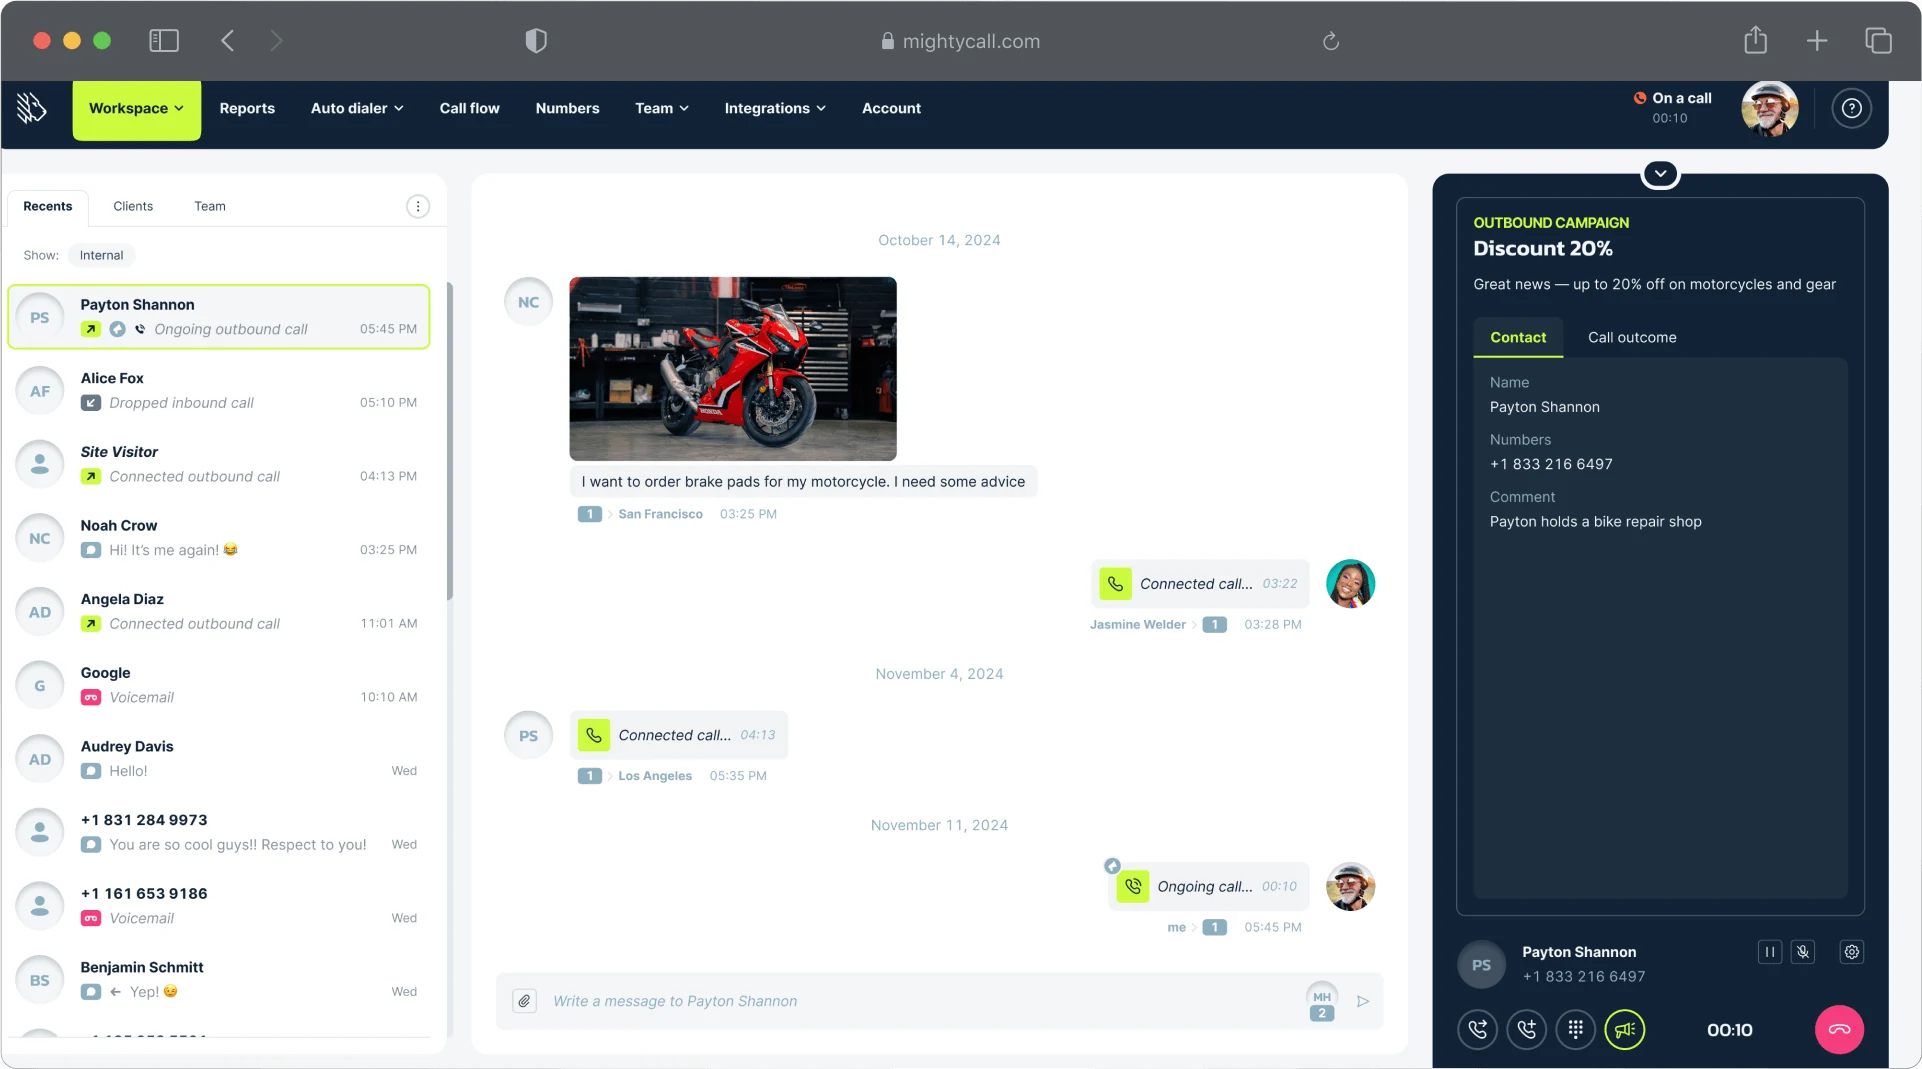
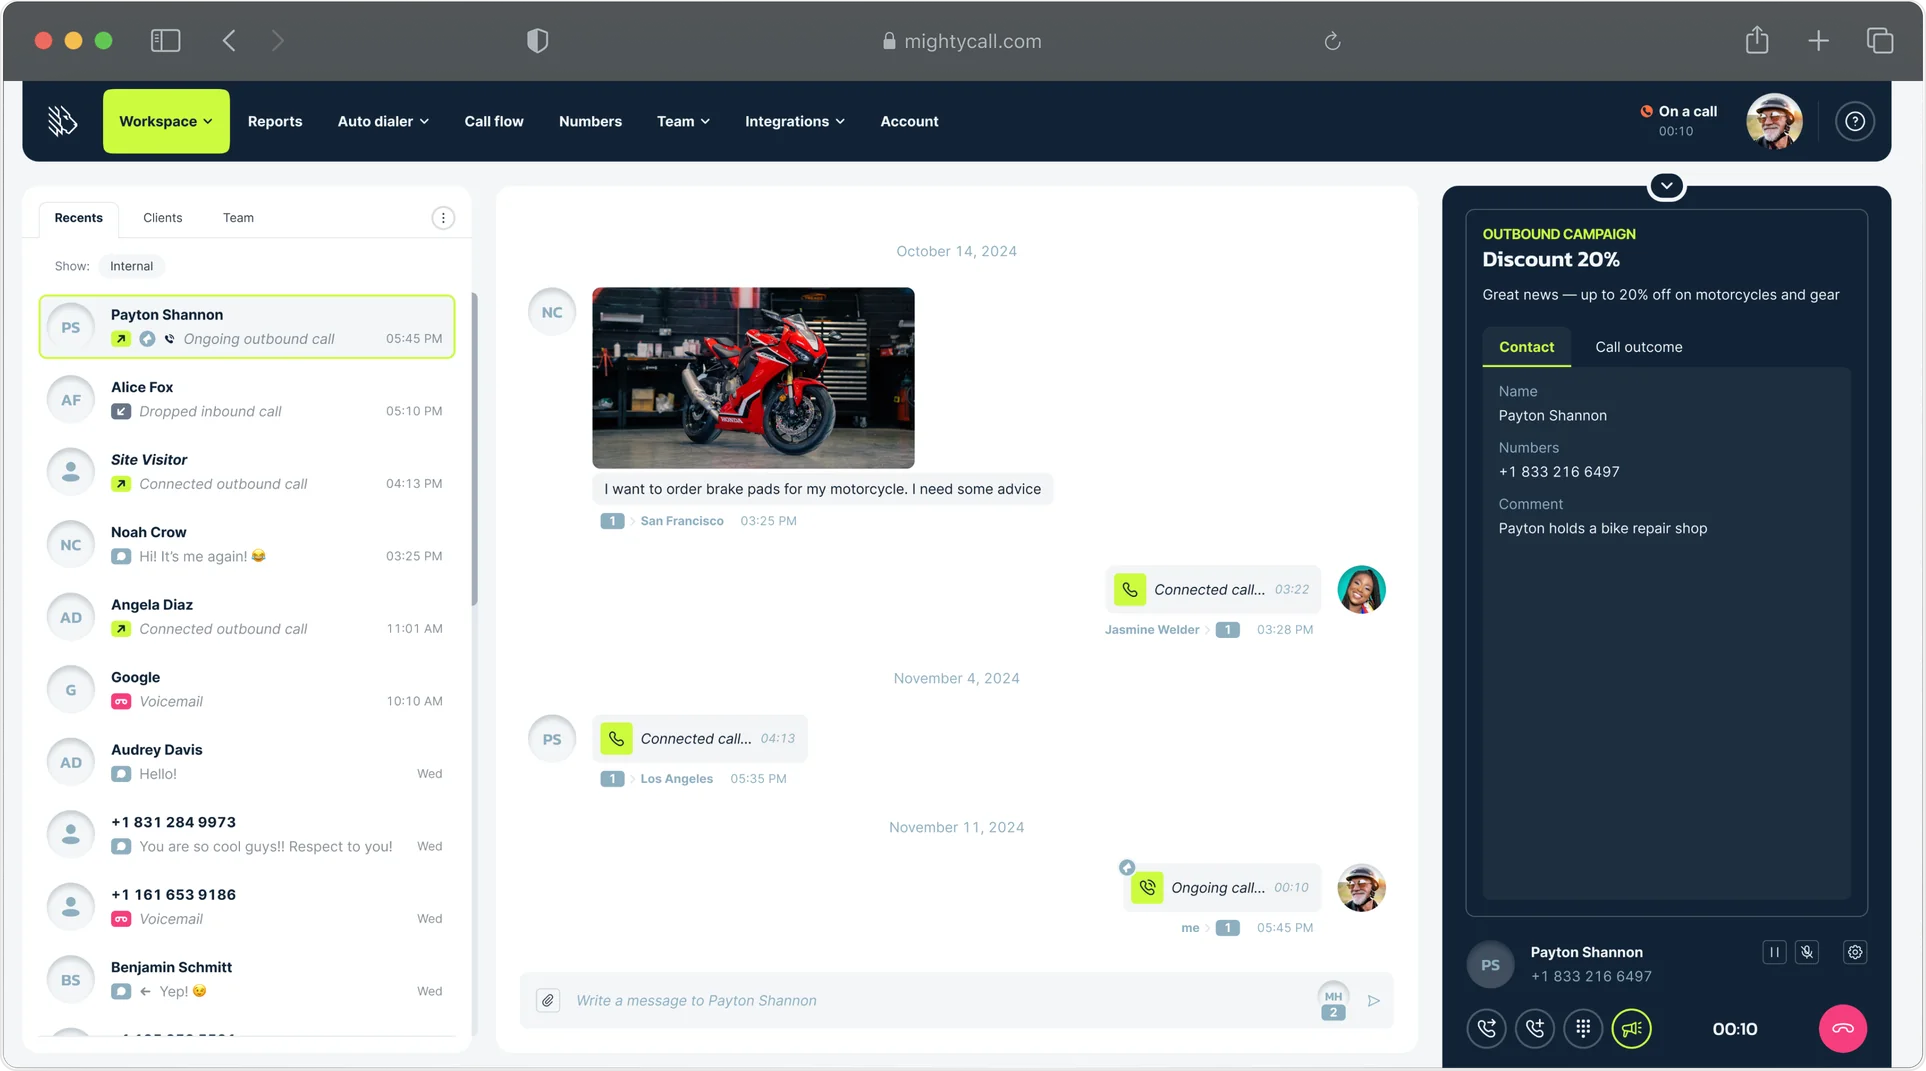
Кейс: галерея оператора — входящий звонок, разговор, после звонка

diff --git a/cases/predictive-dialer/index.html b/cases/predictive-dialer/index.html
@@ -240,13 +240,20 @@
         <p class="text-l"><strong>Рабочее место оператора.</strong> Звонок из&nbsp;кампании приходит в&nbsp;веб-фон, который работает во&nbsp;всём продукте. Оператор получает его, когда клиент уже на&nbsp;линии, и&nbsp;сразу видит название кампании и&nbsp;данные контакта. После разговора он&nbsp;выбирает результат звонка и&nbsp;переходит к&nbsp;следующему.</p>
       </div>
       <div class="section__wide gallery" data-gallery>
-        <div class="gallery__track" tabindex="0" role="region" aria-label="Экраны оператора, 2 картинки">
+        <div class="gallery__track" tabindex="0" role="region" aria-label="Экраны оператора, 3 картинки">
           <figure class="figure gallery__slide">
             <button class="figure__stage figure__zoom" type="button" data-zoom="fit" aria-label="Открыть картинку на весь экран">
-              <img class="theme-light" src="img/on-call.webp" alt="Рабочее место оператора во&nbsp;время звонка из&nbsp;кампании, справа название кампании и&nbsp;данные контакта" width="1923" height="1070" loading="lazy" decoding="async">
-              <img class="theme-dark" src="img/on-call-dark.webp" alt="Рабочее место оператора во&nbsp;время звонка из&nbsp;кампании, справа название кампании и&nbsp;данные контакта" width="1922" height="1069" loading="lazy" decoding="async">
+              <img class="theme-light" src="img/ringing.webp" alt="Рабочее место оператора с&nbsp;входящим звонком из&nbsp;кампании, справа название кампании, данные контакта и&nbsp;кнопка ответа" width="1926" height="1071" loading="lazy" decoding="async">
+              <img class="theme-dark" src="img/ringing-dark.webp" alt="Рабочее место оператора с&nbsp;входящим звонком из&nbsp;кампании, справа название кампании, данные контакта и&nbsp;кнопка ответа" width="1926" height="1071" loading="lazy" decoding="async">
             </button>
-            <figcaption class="text-s">Звонок из&nbsp;кампании. Клиент уже на&nbsp;линии, справа название кампании и&nbsp;данные&nbsp;контакта</figcaption>
+            <figcaption class="text-s">Звонок из&nbsp;кампании приходит, когда клиент уже на&nbsp;линии. Справа название кампании и&nbsp;данные&nbsp;контакта</figcaption>
+          </figure>
+          <figure class="figure gallery__slide">
+            <button class="figure__stage figure__zoom" type="button" data-zoom="fit" aria-label="Открыть картинку на весь экран">
+              <img class="theme-light" src="img/on-call.webp?v=2" alt="Рабочее место оператора во&nbsp;время разговора с&nbsp;клиентом из&nbsp;кампании, справа данные контакта и&nbsp;вкладка результата звонка" width="1926" height="1071" loading="lazy" decoding="async">
+              <img class="theme-dark" src="img/on-call-dark.webp?v=2" alt="Рабочее место оператора во&nbsp;время разговора с&nbsp;клиентом из&nbsp;кампании, справа данные контакта и&nbsp;вкладка результата звонка" width="1926" height="1071" loading="lazy" decoding="async">
+            </button>
+            <figcaption class="text-s">Во&nbsp;время разговора данные контакта остаются на&nbsp;экране, рядом вкладка с&nbsp;результатом&nbsp;звонка</figcaption>
           </figure>
           <figure class="figure gallery__slide">
             <button class="figure__stage figure__zoom" type="button" data-zoom="fit" aria-label="Открыть картинку на весь экран">
@@ -257,7 +264,7 @@
           </figure>
         </div>
         <div class="gallery__nav" hidden>
-          <p class="gallery__count label-s" aria-live="polite"><span data-gallery-current>01</span> / <span data-gallery-total>02</span></p>
+          <p class="gallery__count label-s" aria-live="polite"><span data-gallery-current>01</span> / <span data-gallery-total>03</span></p>
           <button class="gallery__btn btn-outline" type="button" data-gallery-prev aria-label="Предыдущий экран"><svg class="px-arrow px-arrow--back" viewBox="0 0 8 7" shape-rendering="crispEdges" aria-hidden="true"><path d="M0 3h8v1H0zM4 0h1v1H4zM5 1h1v1H5zM6 2h1v1H6zM6 4h1v1H6zM5 5h1v1H5zM4 6h1v1H4z" fill="currentColor"/></svg></button>
           <button class="gallery__btn btn-outline" type="button" data-gallery-next aria-label="Следующий экран"><svg class="px-arrow" viewBox="0 0 8 7" shape-rendering="crispEdges" aria-hidden="true"><path d="M0 3h8v1H0zM4 0h1v1H4zM5 1h1v1H5zM6 2h1v1H6zM6 4h1v1H6zM5 5h1v1H5zM4 6h1v1H4z" fill="currentColor"/></svg></button>
         </div>
